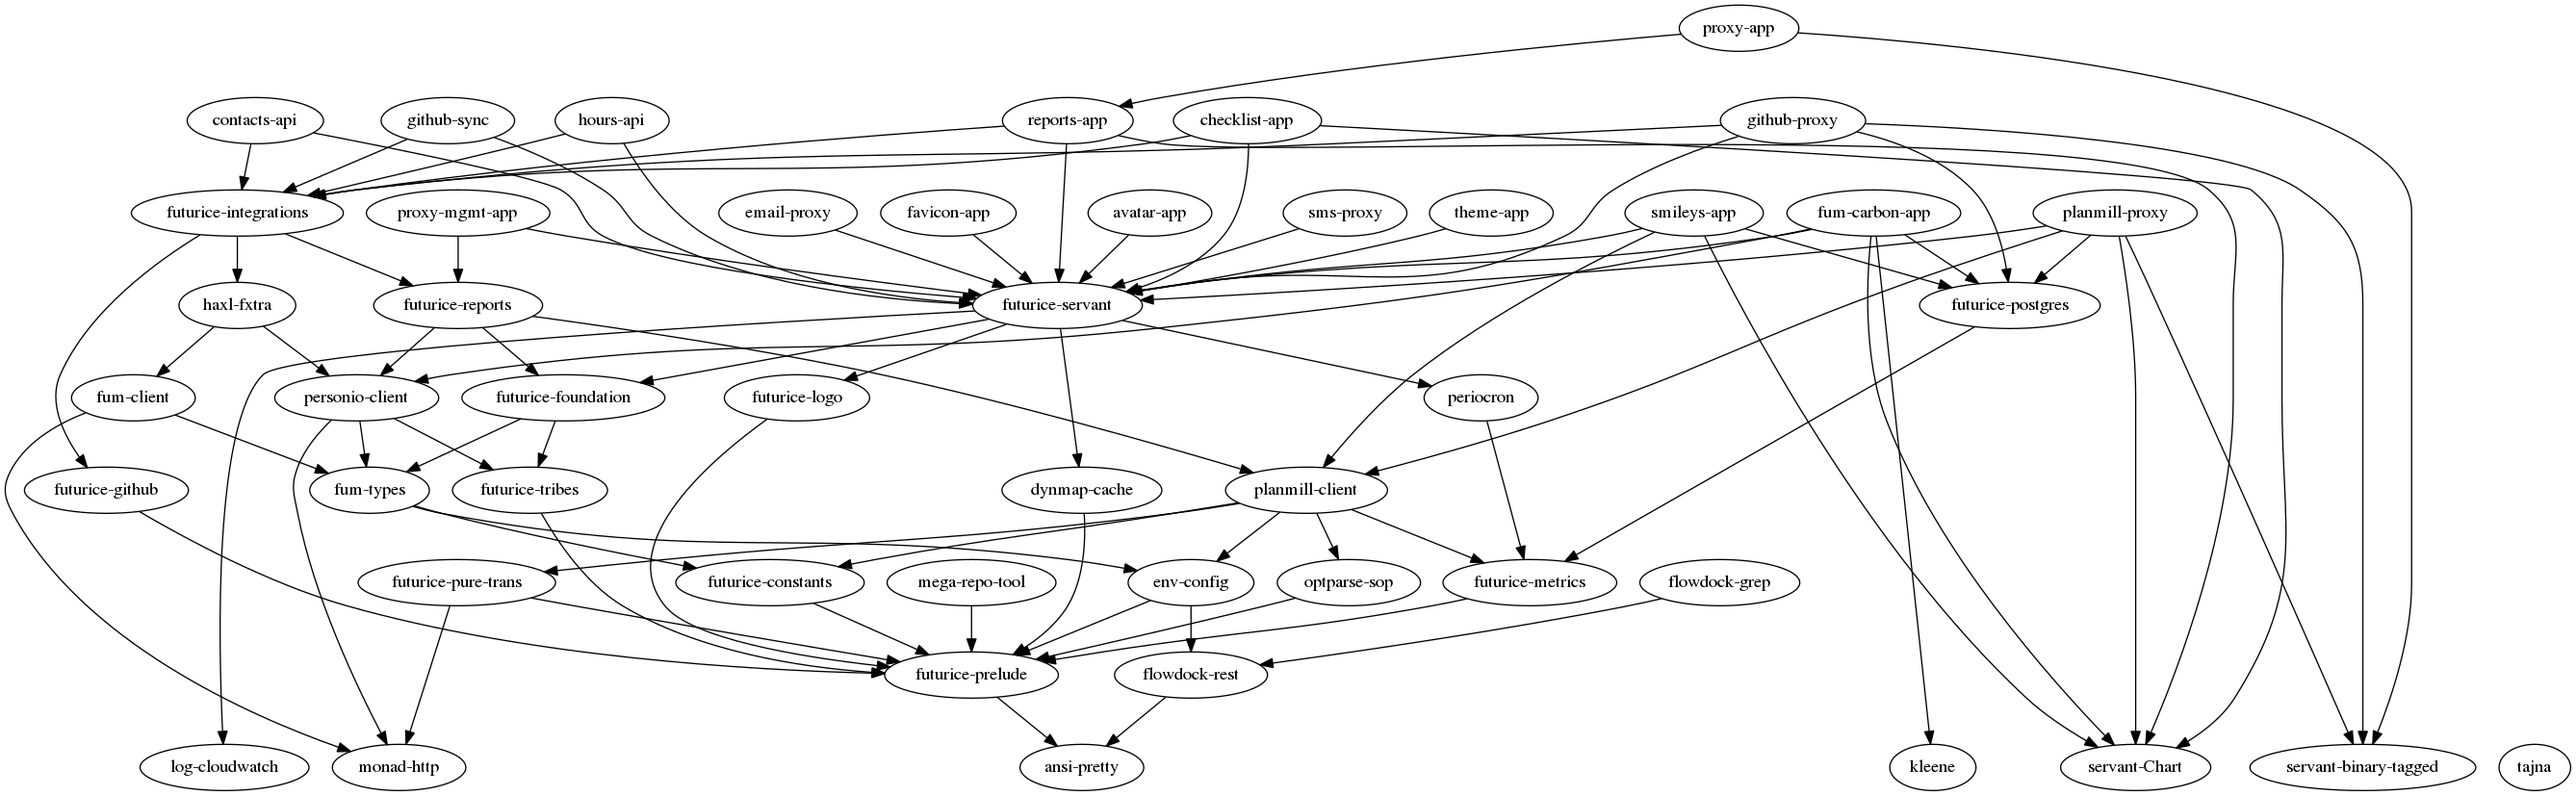
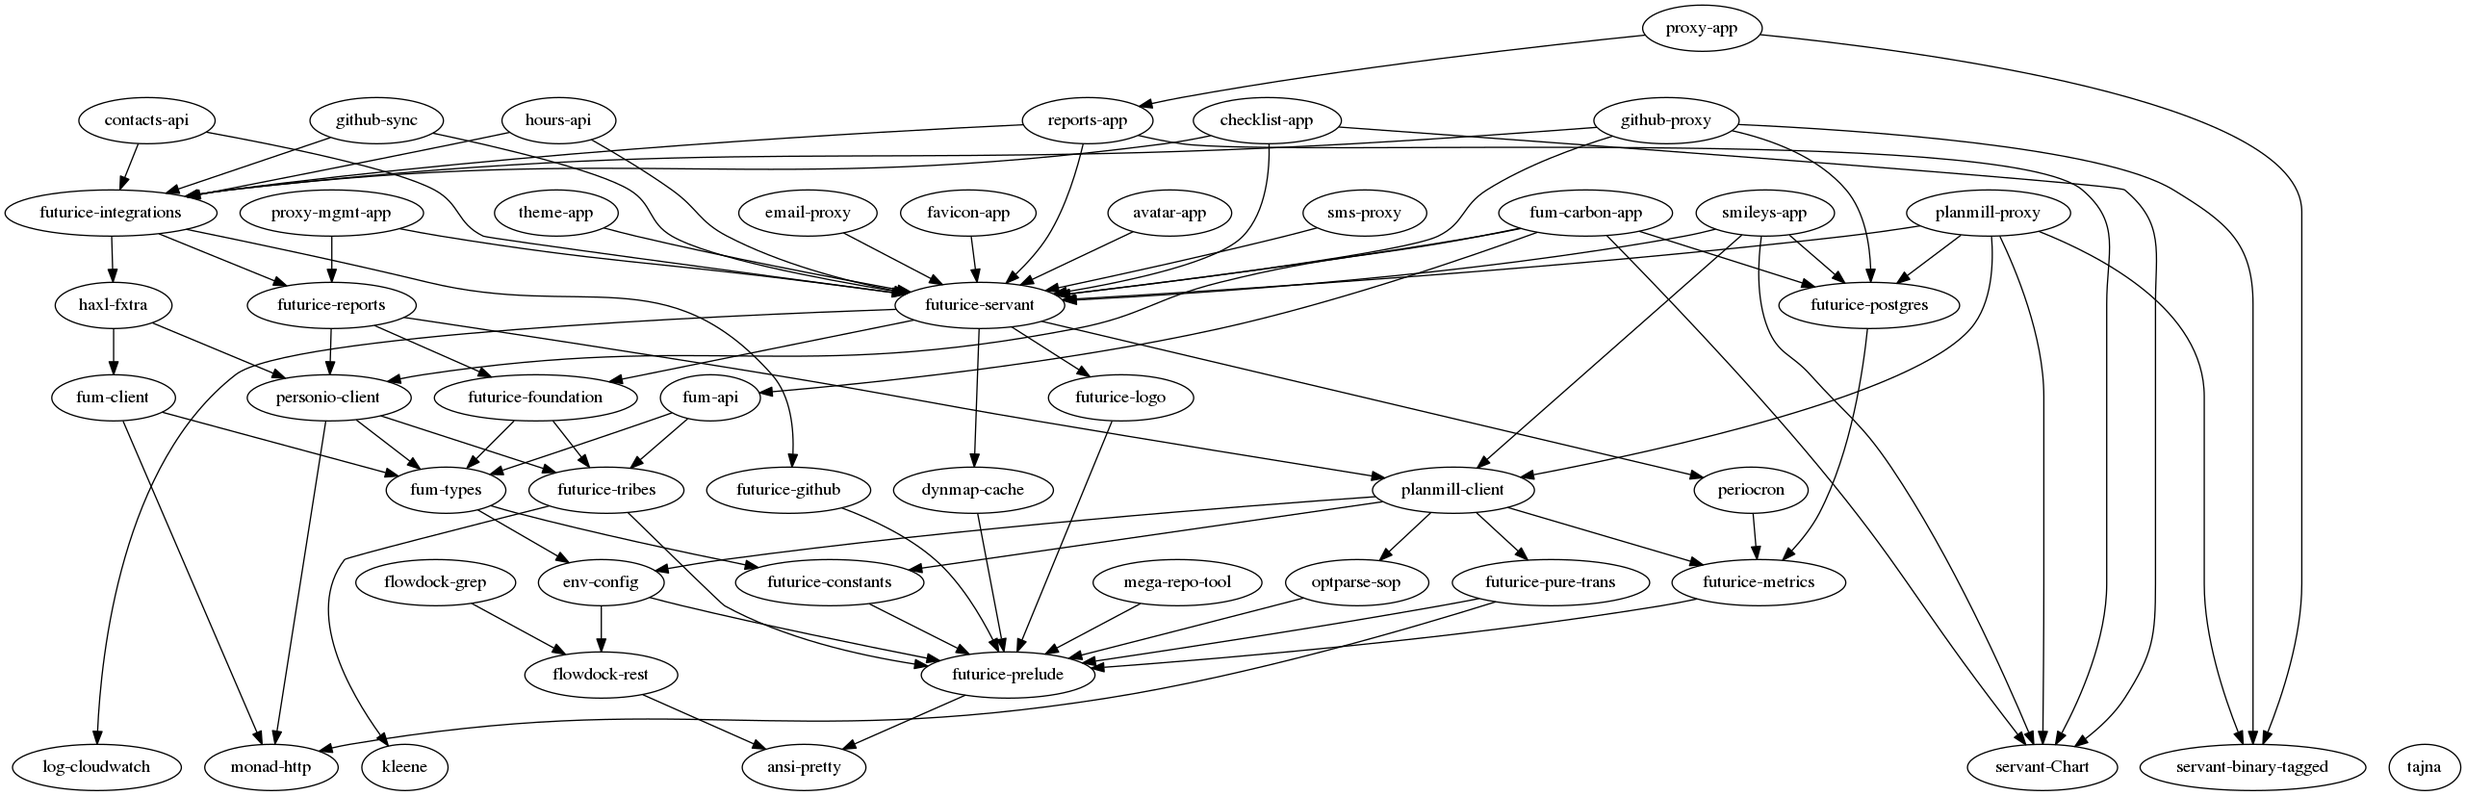
FUM Machine api package

diff --git a/fum-api/README.md b/fum-api/README.md
@@ -1,0 +1,5 @@
+# futurice-github
+
+Additions to the @github-package@
+
+- `SomeRequest`
